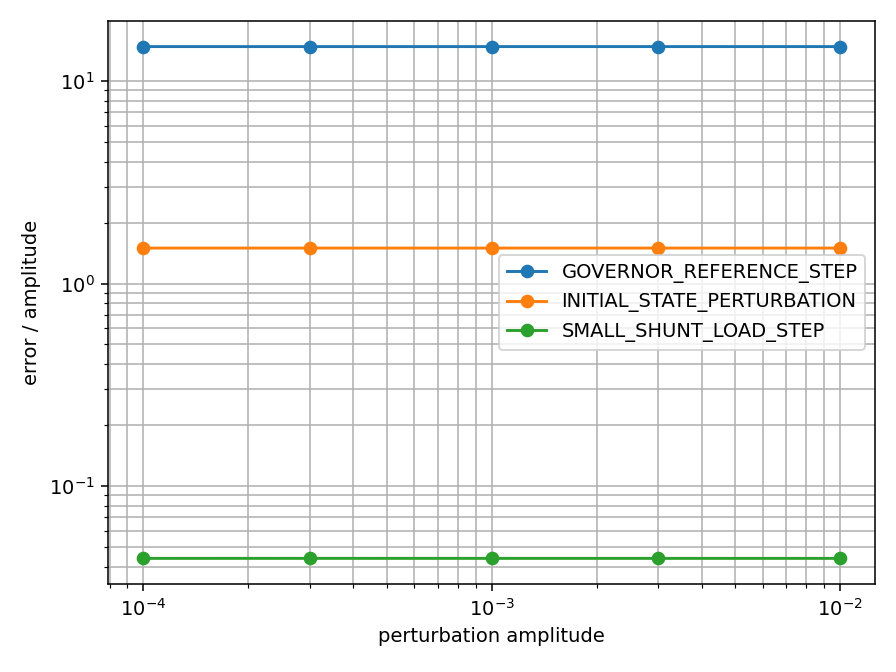
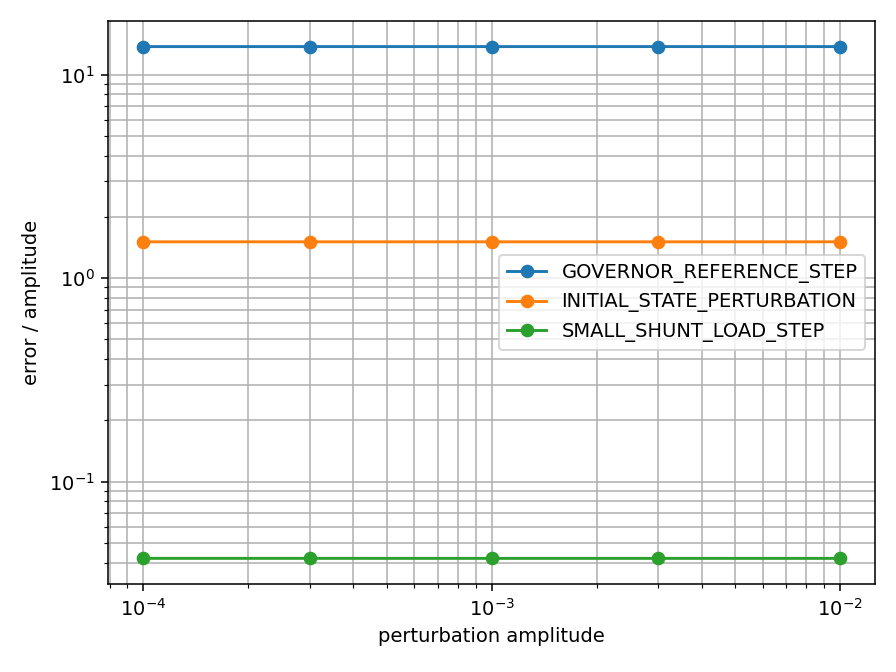
e03r: enforce causal TDS resampling

diff --git a/research/pmu_hybrid_dae_bayes/src/pmu_hybrid/experiments/e03r_closure.py b/research/pmu_hybrid_dae_bayes/src/pmu_hybrid/experiments/e03r_closure.py
@@ -77,7 +77,11 @@ def _run_case(kind: str, epsilon: float, static: Any) -> tuple[np.ndarray, np.nd
 
 
 def _interpolate_causal(times: np.ndarray, values: np.ndarray, grid: np.ndarray) -> np.ndarray:
-    return np.column_stack([np.interp(grid, times, values[:, col]) for col in range(values.shape[1])])
+    # Zero-order hold from the latest completed internal TDS sample.  This is
+    # causal (unlike centered interpolation or np.interp between future points).
+    indices = np.searchsorted(times, grid, side="right") - 1
+    indices = np.clip(indices, 0, len(times) - 1)
+    return values[indices]
 
 
 def _linear_response(A: np.ndarray, C: np.ndarray, dx0: np.ndarray, B: np.ndarray, event_index: int, steps: int, dt: float, epsilon: float) -> np.ndarray:

diff --git a/research/pmu_hybrid_dae_bayes/output/reports/e03r_observability.md b/research/pmu_hybrid_dae_bayes/output/reports/e03r_observability.md
@@ -6,9 +6,9 @@ The supported ANDES event API executes governor-reference and high-impedance shu
 
 | case                       |        min |        max |
 |:---------------------------|-----------:|-----------:|
-| GOVERNOR_REFERENCE_STEP    | 14.7996    | 14.8004    |
-| INITIAL_STATE_PERTURBATION |  1.4965    |  1.4966    |
-| SMALL_SHUNT_LOAD_STEP      |  0.0438983 |  0.0439086 |
+| GOVERNOR_REFERENCE_STEP    | 13.7512    | 13.752     |
+| INITIAL_STATE_PERTURBATION |  1.50886   |  1.50896   |
+| SMALL_SHUNT_LOAD_STEP      |  0.0419301 |  0.0419423 |
 
 The normalized mismatch does not approach a numerical floor for the tested cases, so the input mapping is not yet validated as a true independent linearization.
 
